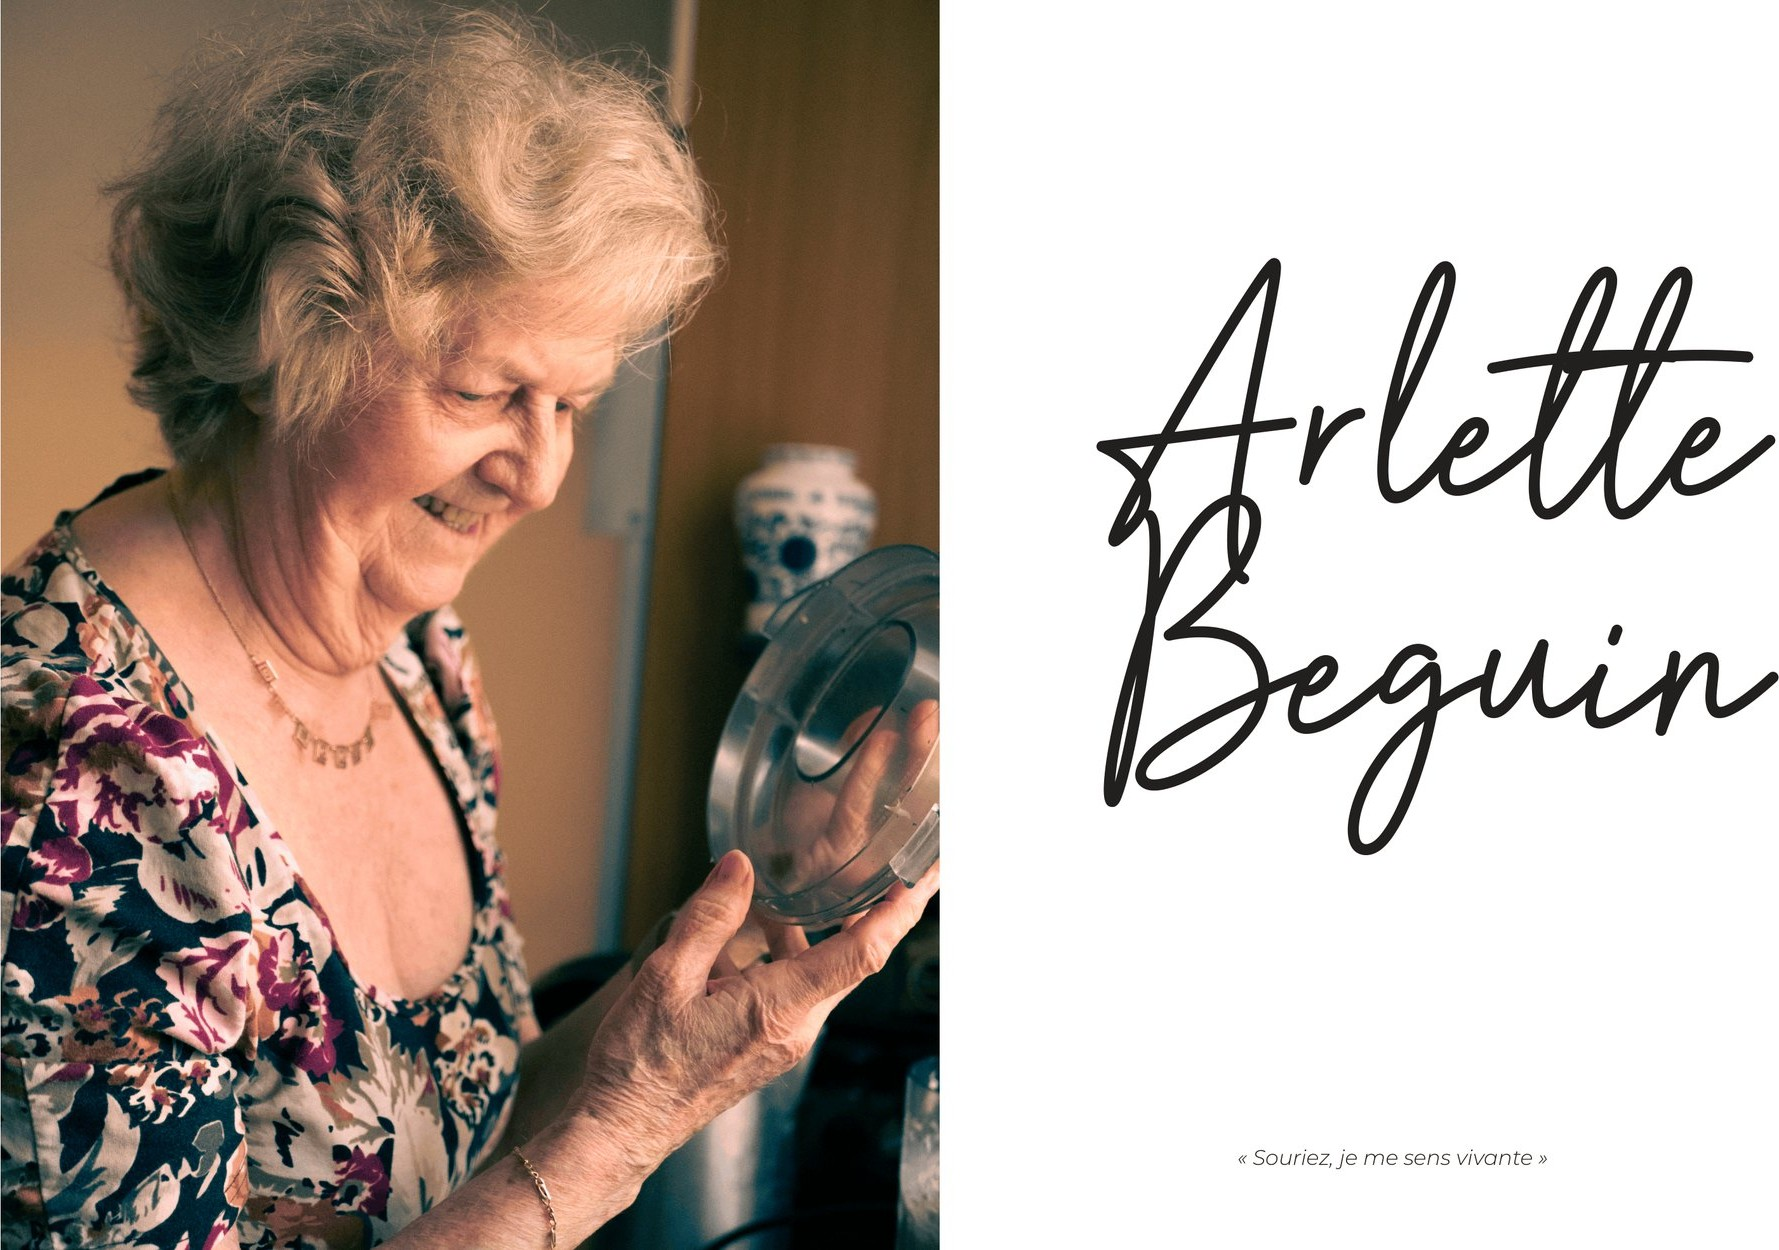
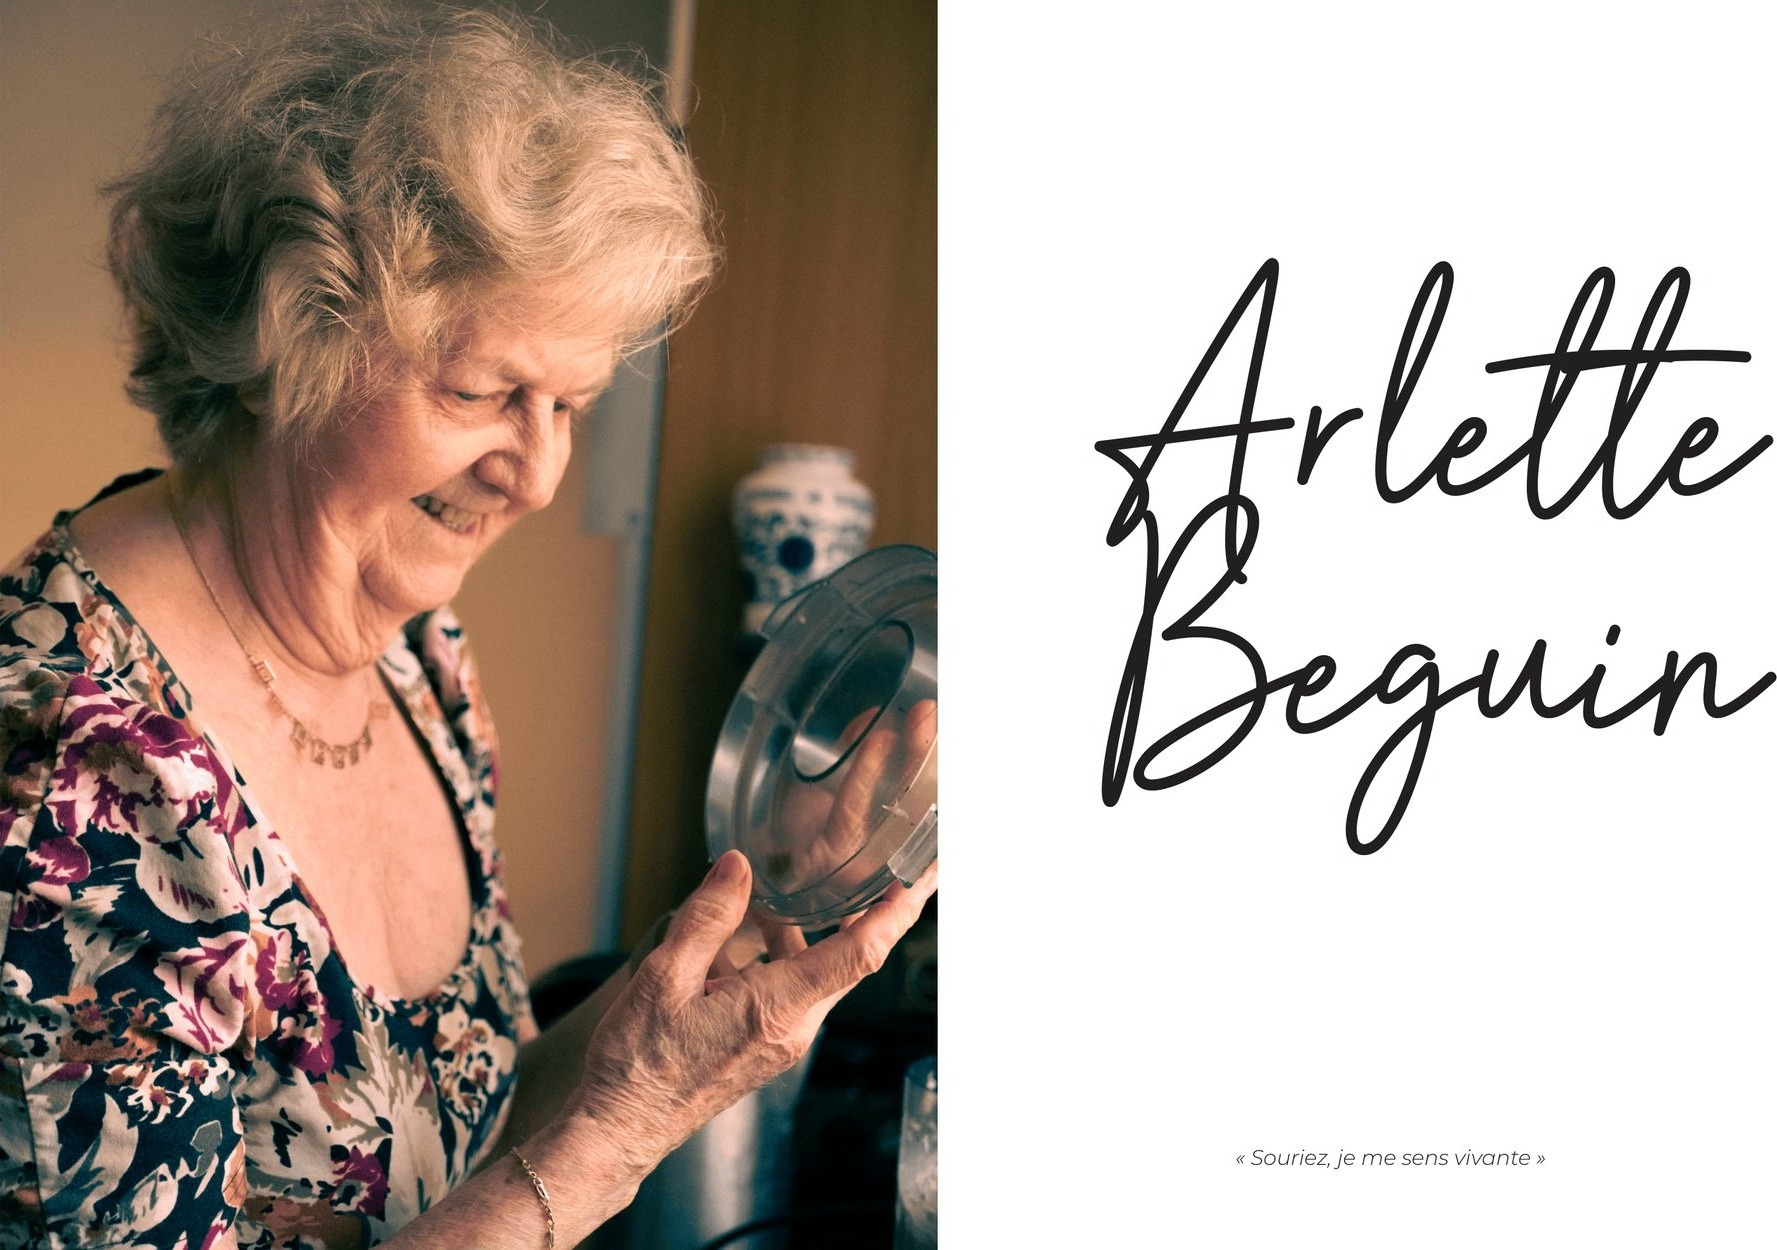
Arlette : ligne blanche retirée, image rechargée (?v=2)

diff --git a/photography.html b/photography.html
@@ -32,7 +32,7 @@
                 <a class="tile" href="projet-ph-p1080197.html" style="--i:2;--r:453/806"><img src="assets/img/ph-p1080197.jpg" alt="Self portrait" loading="lazy"><span class="tile-title">Self portrait</span></a>
             </div>
             <div class="col">
-                <a class="tile" href="projet-ph-retraite.html" style="--i:3;--r:453/603"><img src="assets/img/ph-retraite.jpg" alt="Arlette Béguin" style="object-position:12.6% 50%" loading="lazy"><span class="tile-title">Arlette Béguin</span></a>
+                <a class="tile" href="projet-ph-retraite.html" style="--i:3;--r:453/603"><img src="assets/img/ph-retraite.jpg?v=2" alt="Arlette Béguin" style="object-position:12.6% 50%" loading="lazy"><span class="tile-title">Arlette Béguin</span></a>
                 <a class="tile" href="projet-ph-p1080767.html" style="--i:4;--r:453/804"><img src="assets/img/ph-p1080767.jpg" alt="LONDON DUMP" loading="lazy"><span class="tile-title">LONDON DUMP</span></a>
             </div>
         </section>

diff --git a/projet-ph-retraite.html b/projet-ph-retraite.html
@@ -25,7 +25,7 @@
         <p class="wordmark" aria-hidden="true"><span class="soft">MADEBYAPO<span class="soft-fx"><i></i><i></i><i></i><i></i><i></i><i></i><i></i><i></i></span></span></p>
         <article class="project">
             <div class="project-media">
-                <div class="tile project-main" style="--i:0"><img src="assets/img/ph-retraite.jpg" alt="Arlette Béguin"></div>
+                <div class="tile project-main" style="--i:0"><img src="assets/img/ph-retraite.jpg?v=2" alt="Arlette Béguin"></div>
                 <div class="project-frames project-frames--natural">
                     <img src="assets/img/dt-arlette-salon.jpg" alt="" loading="lazy">
                     <img src="assets/img/dt-arlette-couture.jpg" alt="" loading="lazy">
